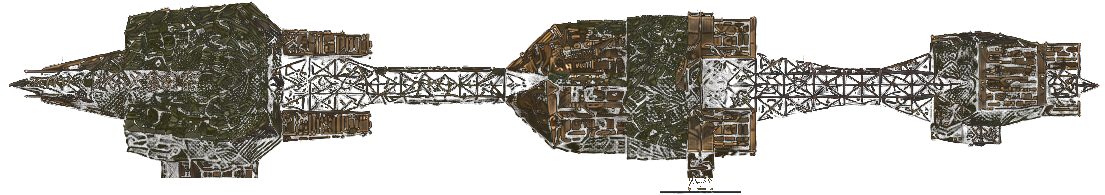
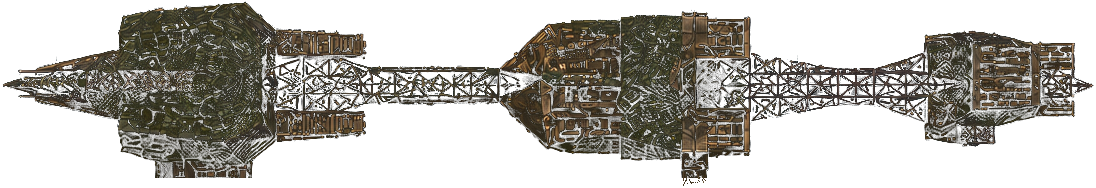
Fix Orion sprite bleed, strip the title screen back to essentials
- The Orion slice had caught the tail of the GTD Hecate sitting above it
  on the capital sheet: a chevron floating over the bow quarter, joined
  to the hull by a thread so keep-largest-component could not remove it.
  Erased the band it occupied (the real hull there starts well below) and
  re-cropped. Checked every other Terran capital the same way and found
  one more: a leftover measurement line under the Colossus, now gone too.
- Title screen is name, buttons and version only. Dropped the CAPITAL
  COMMAND subtitle, the description paragraph and the credits line — the
  attract battle behind the menu is the thing worth looking at, and the
  wiki's ASSETS tab already carries the provenance text. The remaining
  stack is centred as a unit so it sits properly in either orientation.

Claude-Session: https://claude.ai/code/session_01AhpZ1jdXYPat5CgaPQwpSu

diff --git a/src/scenes/TitleScene.js b/src/scenes/TitleScene.js
@@ -27,41 +27,32 @@ export class TitleScene extends Phaser.Scene {
     // An endless, silent capital duel plays out behind the menu.
     this.battle = new TitleBattle(this);
 
-    // Layout scales with the narrow axis so portrait iPhones don't overflow;
-    // an orientation change re-lays everything out via a debounced restart.
+    // Name, buttons, version — nothing else competing with the battle behind.
+    // Layout scales with the narrow axis so portrait phones never overflow; an
+    // orientation change re-lays it out via a debounced restart.
     const narrow = Math.min(w(), 520);
     const titleSize = Math.min(56, Math.floor(narrow / 8));
-    const titleY = h() * 0.24;
+    const buttons = ['CAMPAIGN', 'SANDBOX', 'REFIT', 'WIKI'];
+    const gap = Math.min(62, Math.max(52, h() / 11));
+
+    // Centre the whole stack — title plus buttons — in the screen.
+    const stackH = titleSize + 28 + gap * (buttons.length - 1) + 50;
+    const titleY = Math.max(titleSize * 0.7, (h() - stackH) / 2);
     this.add.text(w() / 2, titleY, 'THREESPACE', {
       fontFamily: 'monospace', resolution: TEXT_RES, fontSize: titleSize, fontStyle: 'bold',
       color: '#d8e2ee', letterSpacing: Math.max(3, Math.floor(titleSize / 8)),
     }).setOrigin(0.5);
-    this.add.text(w() / 2, titleY + titleSize * 0.8, 'CAPITAL COMMAND', {
-      fontFamily: 'monospace', resolution: TEXT_RES, fontSize: Math.min(16, narrow / 24),
-      color: '#6fb7ff', letterSpacing: 5,
-    }).setOrigin(0.5);
-    const blurb = this.add.text(w() / 2, titleY + titleSize * 0.8 + 26,
-      'A FreeSpace-inspired capital ship sandbox: take the helm, trade beam fire ' +
-      'at range, and break the enemy down pixel by pixel — mount by mount.', {
-        fontFamily: 'monospace', resolution: TEXT_RES, fontSize: 12, color: '#8593a6',
-        align: 'center', lineSpacing: 5, wordWrap: { width: Math.min(560, w() - 36) },
-      }).setOrigin(0.5, 0);
+
+    const buttonsTop = titleY + titleSize * 0.6 + 52;
+    const targets = { CAMPAIGN: 'campaign', SANDBOX: 'select', REFIT: 'refit', WIKI: 'wiki' };
+    buttons.forEach((label, i) => {
+      this.makeButton(w() / 2, buttonsTop + gap * i, label,
+        () => this.scene.start(targets[label]));
+    });
+
     this.add.text(w() - 12, h() - 10, `v${version}`, {
       fontFamily: 'monospace', resolution: TEXT_RES, fontSize: 11, color: '#5a6678',
     }).setOrigin(1, 1);
-
-    const buttonsTop = Math.max(blurb.y + blurb.height + 24, h() * 0.46);
-    const gap = Math.min(58, (h() - buttonsTop - 40) / 4);
-    this.makeButton(w() / 2, buttonsTop, 'CAMPAIGN', () => this.scene.start('campaign'));
-    this.makeButton(w() / 2, buttonsTop + gap, 'SANDBOX', () => this.scene.start('select'));
-    this.makeButton(w() / 2, buttonsTop + gap * 2, 'REFIT', () => this.scene.start('refit'));
-    this.makeButton(w() / 2, buttonsTop + gap * 3, 'WIKI', () => this.scene.start('wiki'));
-
-    this.add.text(w() / 2, h() - 8,
-      'Ship & effect art: original FS2-style sprite sheets (project assets)', {
-        fontFamily: 'monospace', resolution: TEXT_RES, fontSize: 10, color: '#5a6678',
-        align: 'center', wordWrap: { width: w() - 120 },
-      }).setOrigin(0.5, 1);
 
     this.input.keyboard.on('keydown-ENTER', () => this.scene.start('campaign'));
 
